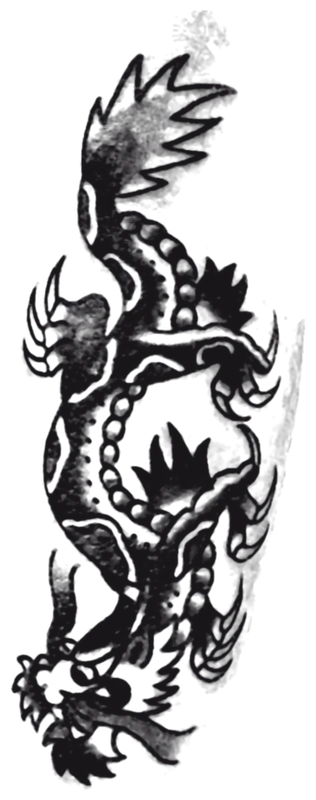
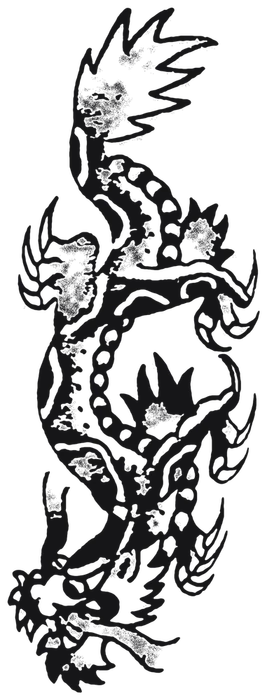
Flash sheet and try-on: cleaner linework, ink on skin, placement

diff --git a/index.html b/index.html
@@ -112,25 +112,41 @@ main{padding-bottom:calc(76px + var(--safe-b))}
 .step i{font-style:normal;font-stretch:125%;font-weight:900;font-size:12px;border:1.5px solid var(--bone);border-radius:999px;width:26px;height:26px;display:inline-grid;place-items:center;flex:none;transform:translateY(-3px)}
 .step h2{font-size:clamp(28px,7.6vw,46px)}
 .note{font-size:13px;color:var(--mute)}
-.wall{display:grid;grid-template-columns:repeat(2,1fr);gap:10px;margin:16px 0 8px}
-@media(min-width:620px){.wall{grid-template-columns:repeat(4,1fr)}}@media(min-width:1000px){.wall{grid-template-columns:repeat(8,1fr)}}
-.tile{appearance:none;border:0;background:var(--paper);color:var(--ink);border-radius:14px;padding:12px 12px 10px;text-align:left;cursor:pointer;position:relative;display:flex;flex-direction:column;font:inherit;transition:transform .2s ease,box-shadow .2s ease;box-shadow:0 0 0 0 var(--bone)}
-.tile .art{aspect-ratio:1/.92;display:grid;place-items:center;padding:6px}
-.tile .art{position:relative}.tile .art img{position:absolute;inset:6px;width:calc(100% - 12px);height:calc(100% - 12px);object-fit:contain}
-.wall>.tile{min-width:0}.tile .nm{overflow-wrap:anywhere;hyphens:auto;font-stretch:125%;font-weight:900;font-size:13px;text-transform:uppercase;letter-spacing:.01em;margin-top:6px;line-height:1.1}
-.tile .by{font-size:11.5px;color:#5c5a55;margin-top:2px}
-.tile[aria-pressed=true]{box-shadow:0 0 0 3px var(--night),0 0 0 5px var(--bone);transform:translateY(-2px)}
-.tile[aria-pressed=true]::after{content:"Selected";position:absolute;top:9px;right:9px;font-stretch:125%;font-weight:800;font-size:9.5px;letter-spacing:.08em;text-transform:uppercase;background:var(--ink);color:var(--paper);border-radius:999px;padding:3px 7px 2px}
-.tile:focus-visible{outline:2px solid var(--bone);outline-offset:3px}
-
+/* the sheet */
+.sheet{position:relative;margin:22px 0 8px;padding:22px 16px 18px;border-radius:3px;color:var(--ink);
+  background:#eee8dc url(img/paper.webp) 0 0/320px;box-shadow:0 1px 0 rgba(255,255,255,.25) inset,0 18px 40px -18px rgba(0,0,0,.7),0 2px 6px rgba(0,0,0,.35);transform:rotate(-.4deg)}
+.sheet::before,.sheet::after{content:"";position:absolute;top:-11px;width:86px;height:26px;background:rgba(236,231,220,.55);box-shadow:0 1px 2px rgba(0,0,0,.2);backdrop-filter:blur(1px)}
+.sheet::before{left:18px;transform:rotate(-5deg)}
+.sheet::after{right:18px;transform:rotate(4deg)}
+.sheet-top{display:flex;justify-content:space-between;align-items:flex-end;border-bottom:2px solid var(--ink);padding-bottom:10px;margin-bottom:14px;gap:10px}
+.sheet-top b{font-stretch:125%;font-weight:900;font-size:clamp(28px,8.4vw,54px);letter-spacing:-.02em;line-height:.82;text-transform:uppercase}
+.sheet-top span{font-size:12px;text-align:right;line-height:1.3;color:#3a3833}
+.sheet-top a{color:inherit}
+.wall{display:grid;grid-template-columns:repeat(2,1fr);gap:4px 12px}
+@media(min-width:760px){.fl img{height:220px}.wall{grid-template-columns:repeat(4,1fr);gap:10px 26px}.sheet{padding:30px 30px 24px}}
+.fl{display:block;align-self:start;width:100%;appearance:none;border:0;background:none;font:inherit;color:inherit;text-align:left;cursor:pointer;padding:10px 6px 12px;margin:0 0 6px;position:relative;border-radius:10px;-webkit-tap-highlight-color:transparent}
+.fl img{width:100%;height:150px;object-fit:contain;mix-blend-mode:multiply;transition:transform .25s cubic-bezier(.2,.8,.2,1)}
+.fl:active img{transform:scale(.97)}
+.fl .cap{display:flex;gap:7px;align-items:baseline;margin-top:8px}
+.fl .no{font-stretch:125%;font-weight:900;font-size:11px;color:var(--red)}
+.fl .nm{font-stretch:125%;font-weight:800;font-size:11.5px;text-transform:uppercase;letter-spacing:.03em;line-height:1.15}
+.fl .art{position:relative;display:block}.fl .ring{position:absolute;inset:-6px -2px;border:2.5px solid var(--red);border-radius:48% 52% 45% 55%/55% 45% 55% 45%;transform:rotate(-2deg) scale(.96);opacity:0;transition:opacity .25s ease,transform .3s cubic-bezier(.2,.8,.2,1);pointer-events:none}
+.fl[aria-pressed=true] .ring{opacity:.9;transform:rotate(-2deg) scale(1)}
+.fl:focus-visible{outline:2px dashed var(--ink);outline-offset:2px}
+.sheet-foot{margin-top:6px;font-size:11.5px;color:#55524b;border-top:1px solid rgba(23,22,26,.25);padding-top:9px}
+/* try-on */
 .tryon{margin-top:34px;display:grid;gap:22px}
-@media(min-width:860px){.stage{aspect-ratio:1170/1545}.tryon{grid-template-columns:minmax(0,430px) 1fr;align-items:start}}
-.stage{position:relative;width:100%;aspect-ratio:1/1.08;border-radius:20px;overflow:hidden;background:#3a2f28;touch-action:none;user-select:none;-webkit-user-select:none}
-.stage .arm{position:absolute;inset:0;width:100%;height:100%;object-fit:cover}
-.stage .ink{position:absolute;left:0;top:0;mix-blend-mode:multiply;opacity:.9;will-change:transform;transform-origin:center center;pointer-events:none;filter:blur(.25px) contrast(1.05)}
-.stage .grab{position:absolute;inset:0;cursor:grab}
-.stage .lab{position:absolute;left:12px;bottom:12px;right:12px;display:flex;justify-content:space-between;gap:8px;pointer-events:none}
-.stage .lab span{background:rgba(22,33,32,.78);color:var(--bone);border-radius:999px;padding:6px 11px 5px;font-size:11.5px;font-stretch:125%;font-weight:700;letter-spacing:.04em;text-transform:uppercase}
+@media(min-width:860px){.tryon{grid-template-columns:minmax(0,470px) 1fr;align-items:start}.stage{aspect-ratio:900/1188!important}}
+.stage{position:relative;width:100%;aspect-ratio:1/1.1;border-radius:20px;overflow:hidden;background:#2a2420;touch-action:none;user-select:none;-webkit-user-select:none;cursor:grab}
+.stage.drag{cursor:grabbing}
+.stage canvas{position:absolute;inset:0;width:100%;height:100%;display:block}
+.stage .lab{position:absolute;left:12px;top:12px;pointer-events:none;background:rgba(22,33,32,.78);color:var(--bone);border-radius:999px;padding:6px 11px 5px;font-size:11.5px;font-stretch:125%;font-weight:700;letter-spacing:.04em;text-transform:uppercase}
+.stage .hint{position:absolute;left:50%;bottom:14px;transform:translateX(-50%);pointer-events:none;background:rgba(22,33,32,.8);color:var(--bone);border-radius:999px;padding:8px 14px 7px;font-size:12.5px;white-space:nowrap;transition:opacity .4s ease}
+.stage.moved .hint{opacity:0}
+.tools{display:grid;grid-template-columns:repeat(4,1fr);gap:8px;margin-top:10px}
+.tool{appearance:none;font:inherit;color:var(--bone);background:rgba(44,64,61,.45);border:1px solid var(--line);border-radius:12px;min-height:46px;display:flex;flex-direction:column;align-items:center;justify-content:center;gap:3px;font-stretch:125%;font-weight:700;font-size:10.5px;letter-spacing:.06em;text-transform:uppercase;cursor:pointer}
+.tool svg{width:18px;height:18px}
+.tool:active{background:rgba(236,231,220,.14)}
 .panel{display:flex;flex-direction:column;gap:16px}
 .slider{padding:6px 2px}
 .slider input{width:100%;-webkit-appearance:none;appearance:none;height:44px;background:transparent;margin:0}
@@ -139,7 +155,8 @@ main{padding-bottom:calc(76px + var(--safe-b))}
 .slider input::-moz-range-track{height:4px;border-radius:4px;background:rgba(236,231,220,.22)}
 .slider input::-moz-range-progress{height:4px;background:var(--bone)}
 .slider input::-moz-range-thumb{width:22px;height:22px;border-radius:50%;background:var(--bone);border:4px solid var(--night)}
-.ends{display:flex;justify-content:space-between;font-size:11.5px;color:var(--mute);font-stretch:125%;font-weight:700;letter-spacing:.06em;text-transform:uppercase}
+.ends{display:flex;justify-content:space-between;align-items:center;font-size:11.5px;color:var(--mute);font-stretch:125%;font-weight:700;letter-spacing:.06em;text-transform:uppercase}
+.ends i{display:inline-block;background:var(--mute);border-radius:2px}
 .quiet{font-size:13.5px;color:var(--bone2);text-align:center}
 .orig{display:flex;gap:12px;align-items:center;border:1px solid var(--line);border-radius:14px;padding:10px;text-decoration:none}
 .orig img{width:58px;height:58px;object-fit:cover;border-radius:9px;flex:none}
@@ -287,23 +304,31 @@ footer a{text-decoration:none}
       <span class="pill">Flash</span>
     </div>
     <div class="step"><i>1</i><h2 class="wide">Pick a design.</h2></div>
-    <p class="note">Designs by Grant, <a href="https://www.instagram.com/gcm_flash/" target="_blank" rel="noopener">@gcm_flash</a>.</p>
-    <div class="wall" id="wall" role="group" aria-label="Flash designs"></div>
+    <div class="sheet">
+      <div class="sheet-top"><b>GCM<br>Flash</b><span>Grant<br><a href="https://www.instagram.com/gcm_flash/" target="_blank" rel="noopener">@gcm_flash</a></span></div>
+      <div class="wall" id="wall" role="group" aria-label="Flash designs by Grant"></div>
+      <div class="sheet-foot">Each design is from a tattoo Grant has done at Sonder and posted on Instagram.</div>
+    </div>
 
     <div class="tryon" id="tryon">
       <div>
         <div class="step"><i>2</i><h2 class="wide">See it on skin.</h2></div>
         <div class="stage" id="stage">
-          <img class="arm" src="img/arm/arm.webp" alt="Arm preview" width="900" height="1188">
-          <img class="ink" id="ink" alt="" draggable="false">
-          <div class="grab" id="grab" aria-hidden="true"></div>
-          <div class="lab"><span id="lab-name">Crawling panther</span></div>
+          <canvas id="cv" aria-label="Arm preview with the chosen design" role="img"></canvas>
+          <span class="lab" id="lab-name">Crawling panther</span>
+          <span class="hint">Drag the design to move it</span>
+        </div>
+        <div class="tools">
+          <button class="tool" type="button" id="t-left" aria-label="Turn left"><svg viewBox="0 0 24 24" fill="none" stroke="currentColor" stroke-width="2" stroke-linecap="round"><path d="M4 4v6h6"/><path d="M5.5 15a7.5 7.5 0 1 0 1.8-8.2L4 10"/></svg>Turn</button>
+          <button class="tool" type="button" id="t-right" aria-label="Turn right"><svg viewBox="0 0 24 24" fill="none" stroke="currentColor" stroke-width="2" stroke-linecap="round"><path d="M20 4v6h-6"/><path d="M18.5 15a7.5 7.5 0 1 1-1.8-8.2L20 10"/></svg>Turn</button>
+          <button class="tool" type="button" id="t-flip" aria-label="Flip"><svg viewBox="0 0 24 24" fill="none" stroke="currentColor" stroke-width="2" stroke-linecap="round"><path d="M12 3v18"/><path d="M8 7 3 12l5 5V7Z"/><path d="m16 7 5 5-5 5V7Z"/></svg>Flip</button>
+          <button class="tool" type="button" id="t-reset" aria-label="Reset"><svg viewBox="0 0 24 24" fill="none" stroke="currentColor" stroke-width="2" stroke-linecap="round"><circle cx="12" cy="12" r="8"/><circle cx="12" cy="12" r="2.5"/></svg>Reset</button>
         </div>
       </div>
       <div class="panel">
         <div class="step"><i>3</i><h2 class="wide">Drag to size it.</h2></div>
         <div class="slider">
-          <input type="range" id="size" min="0" max="100" value="50" aria-label="Design size">
+          <input type="range" id="size" min="0" max="1000" value="420" aria-label="Design size">
           <div class="ends"><span>Smaller</span><span>Bigger</span></div>
         </div>
         <div>
@@ -314,11 +339,11 @@ footer a{text-decoration:none}
         <p class="quiet">Free consultation. Your artist will talk through size, placement and price.</p>
         <a class="orig" id="orig" href="#" target="_blank" rel="noopener">
           <img id="orig-img" src="" alt="">
-          <span><small>The original piece</small><b id="orig-t">See it on @gcm_flash</b></span>
+          <span><small>The original piece</small><b>See it on @gcm_flash</b></span>
         </a>
       </div>
     </div>
-    <p class="flash-foot">Each design is taken from a tattoo Grant has posted on Instagram, shown here so you can try it on. Sizing is a visual guide only. The arm photo is a stock image.</p>
+    <p class="flash-foot">Sizing and placement are a visual guide only. The arm photo is a stock image.</p>
   </div>
 </section>
 
@@ -422,7 +447,7 @@ footer a{text-decoration:none}
 </nav>
 
 <script>
-const DESIGNS = [{"id": "panther", "name": "Crawling panther", "post": "https://www.instagram.com/p/DcPot1qlPOT/", "w": 338, "h": 800}, {"id": "web", "name": "Spider web", "post": "https://www.instagram.com/p/Dd5JxdtH8gg/", "w": 511, "h": 800}, {"id": "dragon", "name": "Dragon", "post": "https://www.instagram.com/p/DdXvHuPn8Gq/", "w": 316, "h": 800}, {"id": "lamb", "name": "Lamb and crown of thorns", "post": "https://www.instagram.com/p/DdaUGdPH_-K/", "w": 508, "h": 800}, {"id": "shark", "name": "Hammerhead shark", "post": "https://www.instagram.com/p/DcKfVgyIHXA/", "w": 464, "h": 800}, {"id": "tiger", "name": "Tiger", "post": "https://www.instagram.com/p/Dd7yUHmn0D2/", "w": 377, "h": 659}, {"id": "skull", "name": "Cherub and skull", "post": "https://www.instagram.com/p/Dd7yUHmn0D2/", "w": 359, "h": 450}, {"id": "cherries", "name": "Cherries", "post": "https://www.instagram.com/p/Dd7yUHmn0D2/", "w": 306, "h": 476}];
+const DESIGNS = [{"id": "panther", "name": "Crawling panther", "post": "https://www.instagram.com/p/DcPot1qlPOT/", "w": 419, "h": 1000}, {"id": "web", "name": "Spider web", "post": "https://www.instagram.com/p/Dd5JxdtH8gg/", "w": 632, "h": 1000}, {"id": "dragon", "name": "Dragon", "post": "https://www.instagram.com/p/DdXvHuPn8Gq/", "w": 381, "h": 1000}, {"id": "lamb", "name": "Lamb and crown of thorns", "post": "https://www.instagram.com/p/DdaUGdPH_-K/", "w": 631, "h": 1000}, {"id": "shark", "name": "Hammerhead shark", "post": "https://www.instagram.com/p/DcKfVgyIHXA/", "w": 568, "h": 1000}, {"id": "tiger", "name": "Tiger", "post": "https://www.instagram.com/p/Dd7yUHmn0D2/", "w": 571, "h": 1000}, {"id": "skull", "name": "Cherub and skull", "post": "https://www.instagram.com/p/Dd7yUHmn0D2/", "w": 897, "h": 1000}, {"id": "cherries", "name": "Cherries", "post": "https://www.instagram.com/p/Dd7yUHmn0D2/", "w": 720, "h": 1000}];
 (function(){
   // ---------- routing ----------
   const pages=['home','flash','artists','barber','visit'];
@@ -432,52 +457,132 @@ const DESIGNS = [{"id": "panther", "name": "Crawling panther", "post": "https://
     document.querySelectorAll('.nav a,.tabs a').forEach(a=>{ if(a.dataset.go===id) a.setAttribute('aria-current','page'); else a.removeAttribute('aria-current'); });
     if(push) history.pushState(null,'','#'+id);
     window.scrollTo({top:0,behavior:'instant'});
-    if(id==='flash') requestAnimationFrame(layout);
+    if(id==='flash') requestAnimationFrame(()=>window.__layoutFlash&&window.__layoutFlash());
   }
   document.addEventListener('click',e=>{const a=e.target.closest('a[data-go]'); if(!a) return; e.preventDefault(); show(a.dataset.go,true);});
   window.addEventListener('popstate',()=>show(location.hash.slice(1),false));
   show(location.hash.slice(1)||'home',false);
 
-  // ---------- flash wall ----------
-  const wall=document.getElementById('wall'), stage=document.getElementById('stage'), ink=document.getElementById('ink');
-  const range=document.getElementById('size'), grab=document.getElementById('grab');
-  let cur=DESIGNS[0], pos={x:.5,y:.45}, sizeT=.5;
+  // ---------- flash sheet + try-on ----------
+  const wall=document.getElementById('wall'), stage=document.getElementById('stage'), cv=document.getElementById('cv'), ctx=cv.getContext('2d');
+  const range=document.getElementById('size');
+  const IMG={}, load=src=>IMG[src]||(IMG[src]=new Promise(r=>{const i=new Image();i.decoding='async';i.onload=()=>r(i);i.src=src;}));
+  // arm geometry (image px of img/arm/arm.webp, 900 x 1188): left edge, right edge, sleeve hem
+  const AW=900, AH=1188;
+  const LEFT=[[300,136],[400,145],[600,170],[800,240],[1000,340],[1188,362]];
+  const RIGHT=[[120,770],[400,756],[700,750],[900,760],[1188,784]];
+  const HEM=[[124,350],[220,322],[300,302],[450,290],[600,282],[770,272],[800,272]];
+  const lerpT=(T,y)=>{ if(y<=T[0][0]) return T[0][1]; for(let i=1;i<T.length;i++){ if(y<=T[i][0]){const [y0,a]=T[i-1],[y1,b]=T[i]; return a+(b-a)*(y-y0)/(y1-y0);} } return T[T.length-1][1]; };
+  const armAt=y=>{ const l=lerpT(LEFT,y), r=lerpT(RIGHT,y); return {c:(l+r)/2, R:(r-l)/2}; };
+  let arm, pores, sheen, cur=DESIGNS[0], skin=null;
+  const S={u:0,y:690,t:.42,rot:0,flip:false};
+  let W=0,H=0,dpr=1,k=1,ox=0,oy=0, inkC=document.createElement('canvas'), warpC=document.createElement('canvas'), shC=document.createElement('canvas');
+  function fit(){
+    const r=stage.getBoundingClientRect(); dpr=Math.min(window.devicePixelRatio||1,2);
+    W=Math.round(r.width*dpr); H=Math.round(r.height*dpr); if(!W) return false;
+    cv.width=warpC.width=shC.width=W; cv.height=warpC.height=shC.height=H;
+    k=Math.max(W/AW,H/AH); ox=(W-AW*k)/2; oy=(H-AH*k)/2; return true;
+  }
+  const sizeRange=()=>{ const {R}=armAt(S.y), ar=cur.w/cur.h; const maxH=Math.min(660,(1.55*R)/ar), minH=Math.max(120,maxH*.28); return [minH,maxH]; };
+  function hemAt(x){ return lerpT(HEM.map(([x,y])=>[x,y]),x); }
+  function armPath(c){ c.beginPath(); c.moveTo(ox+LEFT[0][1]*k,oy+LEFT[0][0]*k);
+    HEM.forEach(([x,y])=>c.lineTo(ox+x*k,oy+y*k)); RIGHT.forEach(([y,x])=>c.lineTo(ox+x*k,oy+y*k));
+    for(let i=LEFT.length-1;i>=0;i--) c.lineTo(ox+LEFT[i][1]*k,oy+LEFT[i][0]*k); c.closePath(); }
+  let raf=0; const req=()=>{ if(!raf) raf=requestAnimationFrame(()=>{raf=0;draw();}); };
+  function draw(){
+    if(!arm||!W) return;
+    ctx.globalCompositeOperation='source-over'; ctx.globalAlpha=1;
+    ctx.drawImage(arm,ox,oy,AW*k,AH*k);
+    if(!skin) return;
+    const [minH,maxH]=sizeRange(); const h=minH+(maxH-minH)*S.t, w=h*cur.w/cur.h;
+    // 1) design, rotated / flipped, flat, at screen resolution
+    const rad=S.rot*Math.PI/180, cs=Math.abs(Math.cos(rad)), sn=Math.abs(Math.sin(rad));
+    const bw=w*cs+h*sn, bh=w*sn+h*cs, res=k*1.0;
+    inkC.width=Math.ceil(bw*res)+4; inkC.height=Math.ceil(bh*res)+4;
+    const ic=inkC.getContext('2d'); ic.clearRect(0,0,inkC.width,inkC.height);
+    ic.save(); ic.translate(inkC.width/2,inkC.height/2); ic.rotate(rad); if(S.flip) ic.scale(-1,1);
+    ic.drawImage(skin,-w*res/2,-h*res/2,w*res,h*res); ic.restore();
+    // 2) wrap around the arm: cylinder mapping in strips
+    const wc=warpC.getContext('2d'); wc.globalCompositeOperation='source-over'; wc.globalAlpha=1; wc.clearRect(0,0,W,H);
+    const bx=-bw/2, by=S.y-bh/2;           // flat coords: x = arc offset from arm centreline
+    const cols=Math.min(80,Math.max(12,Math.ceil(inkC.width/7))), rows=Math.min(60,Math.max(8,Math.ceil(inkC.height/14)));
+    const cw=inkC.width/cols, ch=inkC.height/rows;
+    const M=(fx,fy)=>{ const A=armAt(fy), R=A.R*1.04, t=Math.max(-1.57,Math.min(1.57,fx/R));
+      return [ox+(A.c+R*Math.sin(t))*k, oy+(fy+R*0.07*(1-Math.cos(t)))*k, t]; };
+    for(let j=0;j<rows;j++){
+      const fy0=by+j*ch/res, fy1=by+(j+1)*ch/res;
+      for(let i=0;i<cols;i++){
+        const fx0=S.u+bx+i*cw/res, fx1=fx0+cw/res;
+        const p00=M(fx0,fy0), p10=M(fx1,fy0), p01=M(fx0,fy1);
+        const tm=(p00[2]+p10[2])/2; if(Math.abs(tm)>1.6) continue;
+        const al=Math.max(0,Math.min(1,(1.6-Math.abs(tm))/0.45))*(0.8+0.2*Math.cos(tm));
+        if(al<=0.01||p10[0]-p00[0]<0.05) continue;
+        wc.globalAlpha=al;
+        wc.setTransform((p10[0]-p00[0])/cw,(p10[1]-p00[1])/cw,(p01[0]-p00[0])/ch,(p01[1]-p00[1])/ch,p00[0],p00[1]);
+        wc.drawImage(inkC,i*cw,j*ch,cw+0.6,ch+0.6,0,0,cw+0.6,ch+0.6);
+      }
+    }
+    wc.setTransform(1,0,0,1,0,0);
+    wc.globalAlpha=1;
+    // 3) skin texture shows through: knock pores out of the ink, keep it under the sleeve
+    wc.globalCompositeOperation='destination-out'; wc.globalAlpha=.38; wc.drawImage(pores,ox,oy,AW*k,AH*k);
+    wc.globalAlpha=1; wc.globalCompositeOperation='destination-in'; wc.fillStyle='#000'; armPath(wc); wc.fill();
+    wc.globalCompositeOperation='source-over';
+    // 4) ink into the skin (multiply keeps the arm's light and shadow), then the skin's sheen back on top
+    ctx.globalCompositeOperation='multiply'; ctx.drawImage(warpC,0,0);
+    const sc=shC.getContext('2d'); sc.globalCompositeOperation='source-over'; sc.clearRect(0,0,W,H); sc.drawImage(sheen,ox,oy,AW*k,AH*k);
+    sc.globalCompositeOperation='destination-in'; sc.drawImage(warpC,0,0);
+    ctx.globalCompositeOperation='screen'; ctx.globalAlpha=.32; ctx.drawImage(shC,0,0);
+    ctx.globalCompositeOperation='source-over'; ctx.globalAlpha=1;
+    range.style.setProperty('--p',(S.t*100)+'%');
+  }
+  function clampPos(){
+    S.y=Math.max(380,Math.min(1080,S.y));
+    const R=armAt(S.y).R; S.u=Math.max(-R*0.95,Math.min(R*0.95,S.u));
+    const hem=hemAt(armAt(S.y).c+S.u)+40; if(S.y<hem) S.y=hem;
+  }
   DESIGNS.forEach((d,i)=>{
-    const b=document.createElement('button'); b.className='tile'; b.type='button'; b.setAttribute('aria-pressed',i===0?'true':'false');
-    b.innerHTML='<div class="art"><img src="img/flash/'+d.id+'.webp" alt="'+d.name+' by Grant" loading="'+(i<4?'eager':'lazy')+'"></div><div class="nm">'+d.name+'</div><div class="by">Grant · @gcm_flash</div>';
+    const b=document.createElement('button'); b.className='fl'; b.type='button'; b.setAttribute('aria-pressed',i===0?'true':'false');
+    b.innerHTML='<span class="art"><span class="ring"></span><img src="img/flash/'+d.id+'.webp" width="'+d.w+'" height="'+d.h+'" alt="'+d.name+', by Grant" loading="'+(i<4?'eager':'lazy')+'"></span><span class="cap"><span class="no">'+String(i+1).padStart(2,'0')+'</span><span class="nm">'+d.name+'</span></span>';
     b.addEventListener('click',()=>{ pick(d,b); if(window.innerWidth<860) document.getElementById('tryon').scrollIntoView({behavior:'smooth',block:'start'}); });
     wall.appendChild(b);
   });
-  function pick(d,btn){
-    cur=d; pos={x:.5,y:.45};
-    wall.querySelectorAll('.tile').forEach(t=>t.setAttribute('aria-pressed',t===btn?'true':'false'));
-    ink.style.opacity=0;
-    const im=new Image(); im.onload=()=>{ ink.src=im.src; layout(); ink.style.transition='opacity .35s ease'; ink.style.opacity=.9; }; im.src='img/flash/'+d.id+'.webp';
+  async function pick(d,btn){
+    cur=d; wall.querySelectorAll('.fl').forEach(t=>t.setAttribute('aria-pressed',t===btn?'true':'false'));
     document.getElementById('chosen').textContent=d.name; document.getElementById('lab-name').textContent=d.name;
-    const o=document.getElementById('orig'); o.href=d.post; document.getElementById('orig-img').src='img/flash/src-'+d.id+'.webp';
-    document.getElementById('orig-img').alt=d.name+' tattoo by Grant';
+    document.getElementById('orig').href=d.post; const oi=document.getElementById('orig-img'); oi.src='img/flash/src-'+d.id+'.webp'; oi.alt=d.name+' tattoo by Grant';
+    skin=await load('img/skin/'+d.id+'.webp'); if(cur===d) req();
   }
-  function layout(){
-    const W=stage.clientWidth, H=stage.clientHeight; if(!W) return;
-    // design height range relative to the arm; respect each design's aspect
-    const ar=cur.w/cur.h;
-    const maxH=Math.min(H*.62, (W*.58)/ar), minH=maxH*.38;
-    const h=minH+(maxH-minH)*sizeT, w=h*ar;
-    const cx=pos.x*W, cy=pos.y*H;
-    ink.style.width=w+'px'; ink.style.height=h+'px';
-    ink.style.transform='translate('+(cx-w/2)+'px,'+(cy-h/2)+'px) rotate(-3deg)';
-    range.style.setProperty('--p',(sizeT*100)+'%');
-  }
-  range.addEventListener('input',()=>{ sizeT=range.value/100; layout(); });
-  window.addEventListener('resize',layout);
-  // drag to move on the arm
-  let drag=null;
-  grab.addEventListener('pointerdown',e=>{ drag={x:e.clientX,y:e.clientY,p:{...pos}}; grab.setPointerCapture(e.pointerId); grab.style.cursor='grabbing'; });
-  grab.addEventListener('pointermove',e=>{ if(!drag) return; const W=stage.clientWidth,H=stage.clientHeight;
-    pos.x=Math.min(.78,Math.max(.22,drag.p.x+(e.clientX-drag.x)/W)); pos.y=Math.min(.8,Math.max(.2,drag.p.y+(e.clientY-drag.y)/H)); layout(); });
-  const end=()=>{drag=null; grab.style.cursor='grab';};
-  grab.addEventListener('pointerup',end); grab.addEventListener('pointercancel',end);
-  pick(DESIGNS[0], wall.querySelector('.tile'));
+  function reset(){ S.u=0; S.y=690; S.rot=0; S.flip=false; S.t=.42; range.value=420; clampPos(); req(); }
+  range.addEventListener('input',()=>{ S.t=range.value/1000; req(); });
+  document.getElementById('t-left').onclick=()=>{S.rot-=10;req();};
+  document.getElementById('t-right').onclick=()=>{S.rot+=10;req();};
+  document.getElementById('t-flip').onclick=()=>{S.flip=!S.flip;req();};
+  document.getElementById('t-reset').onclick=reset;
+  // drag to place; two fingers to size and turn
+  const pts=new Map(); let g=null;
+  const toImg=(e)=>{ const r=stage.getBoundingClientRect(); return {x:((e.clientX-r.left)*dpr-ox)/k, y:((e.clientY-r.top)*dpr-oy)/k}; };
+  stage.addEventListener('pointerdown',e=>{ try{stage.setPointerCapture(e.pointerId);}catch(_){} pts.set(e.pointerId,toImg(e)); stage.classList.add('drag','moved'); start(); });
+  stage.addEventListener('pointermove',e=>{ if(!pts.has(e.pointerId)) return; pts.set(e.pointerId,toImg(e)); move(); });
+  const up=e=>{ pts.delete(e.pointerId); if(!pts.size) stage.classList.remove('drag'); start(); };
+  stage.addEventListener('pointerup',up); stage.addEventListener('pointercancel',up);
+  function start(){ const p=[...pts.values()]; if(!p.length){g=null;return;}
+    g={p0:p.map(q=>({...q})),u:S.u,y:S.y,t:S.t,rot:S.rot};
+    if(p.length>1){ g.d=Math.hypot(p[1].x-p[0].x,p[1].y-p[0].y); g.a=Math.atan2(p[1].y-p[0].y,p[1].x-p[0].x); } }
+  function move(){ if(!g) return; const p=[...pts.values()];
+    const cx=p.reduce((s,q)=>s+q.x,0)/p.length, cy=p.reduce((s,q)=>s+q.y,0)/p.length;
+    const cx0=g.p0.reduce((s,q)=>s+q.x,0)/g.p0.length, cy0=g.p0.reduce((s,q)=>s+q.y,0)/g.p0.length;
+    const A=armAt(g.y), th=Math.max(-1.3,Math.min(1.3,g.u/(A.R*1.04)));
+    S.u=g.u+(cx-cx0)/Math.max(.35,Math.cos(th)); S.y=g.y+(cy-cy0);
+    if(p.length>1&&g.p0.length>1){ const d=Math.hypot(p[1].x-p[0].x,p[1].y-p[0].y), a=Math.atan2(p[1].y-p[0].y,p[1].x-p[0].x);
+      const [mn,mx]=sizeRange(), h0=mn+(mx-mn)*g.t, h1=h0*d/g.d; S.t=Math.max(0,Math.min(1,(h1-mn)/(mx-mn))); range.value=Math.round(S.t*1000);
+      S.rot=g.rot+(a-g.a)*180/Math.PI; }
+    clampPos(); req(); }
+  async function boot(){ [arm,pores,sheen]=await Promise.all([load('img/arm/arm.webp'),load('img/arm/arm-pores.webp'),load('img/arm/arm-sheen.webp')]); fit(); req(); }
+  window.addEventListener('resize',()=>{ if(fit()) req(); });
+  window.__layoutFlash=()=>{ if(fit()) req(); };
+  pick(DESIGNS[0], wall.querySelector('.fl')); boot();
+
 })();
 </script>
 </body>

diff --git a/CREDITS.md b/CREDITS.md
@@ -3,7 +3,7 @@
 All photos and designs are pitch-only placeholders taken from public Instagram posts. They are not official studio assets and would be replaced or approved by the studio.
 
 ## Flash designs (Grant, @gcm_flash)
-Each design is a trace of the ink from a tattoo Grant posted on Instagram (ink separated from skin; drawing unchanged). Captions note "Done @sonderstudios___".
+Each design is a trace of the ink from a tattoo Grant posted on Instagram. The ink is separated from the skin, outlines are smoothed and specks removed, and his shading is kept as fine stipple. Shapes, line weight and placement of shading are unchanged. The try-on draws the same trace onto the stock arm in the browser (multiply blend, skin texture and sheen kept, wrapped to the arm's curve). Captions note "Done @sonderstudios___".
 | Tile | Source post | Grant's caption |
 |---|---|---|
 | Crawling panther | https://www.instagram.com/p/DcPot1qlPOT/ | "Crawling panther done for Peter!" |
@@ -30,5 +30,7 @@ Each design is a trace of the ink from a tattoo Grant posted on Instagram (ink s
 - "Tattoo. Barber. Coffee." and phone: @sonderstudios___ bio and posts
 - Hours: omitted (Square location hours and directory listings do not agree)
 - Email: omitted (not shown on Square or the Instagram bio)
+
+Paper texture on the flash sheet: generated noise, no photo.
 
 Fonts: Archivo via Google Fonts.
